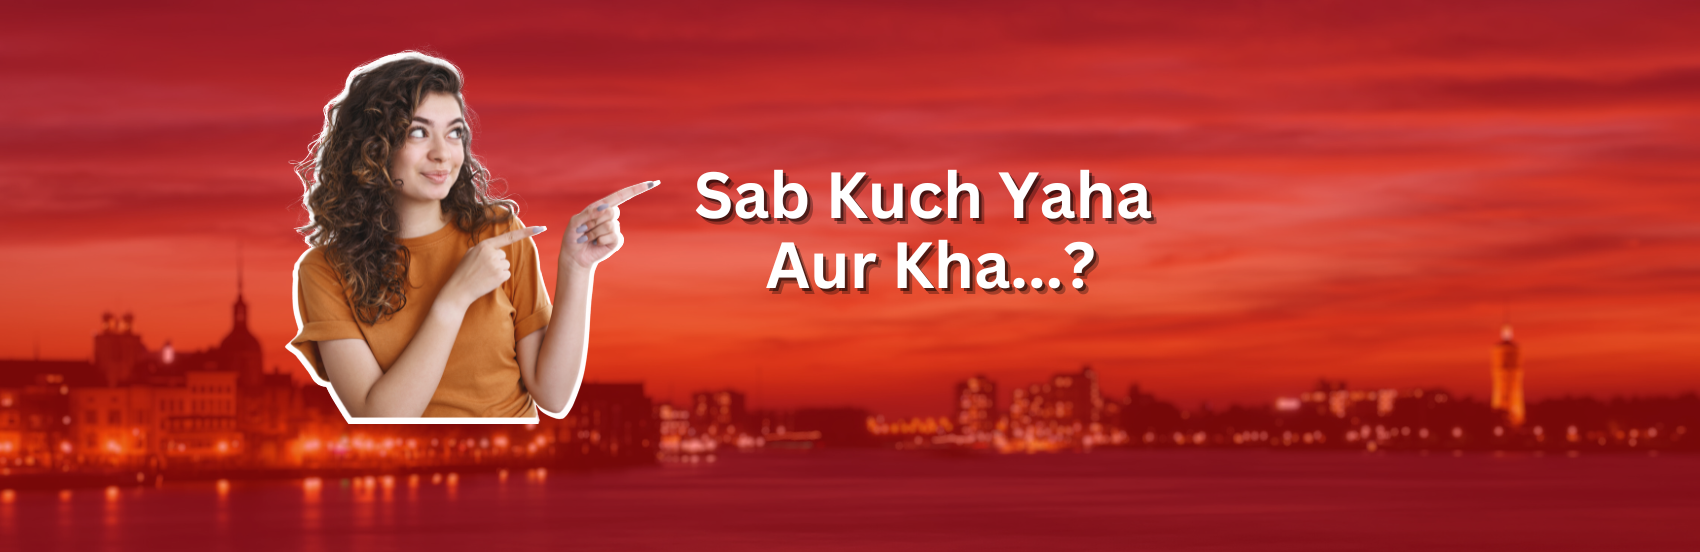
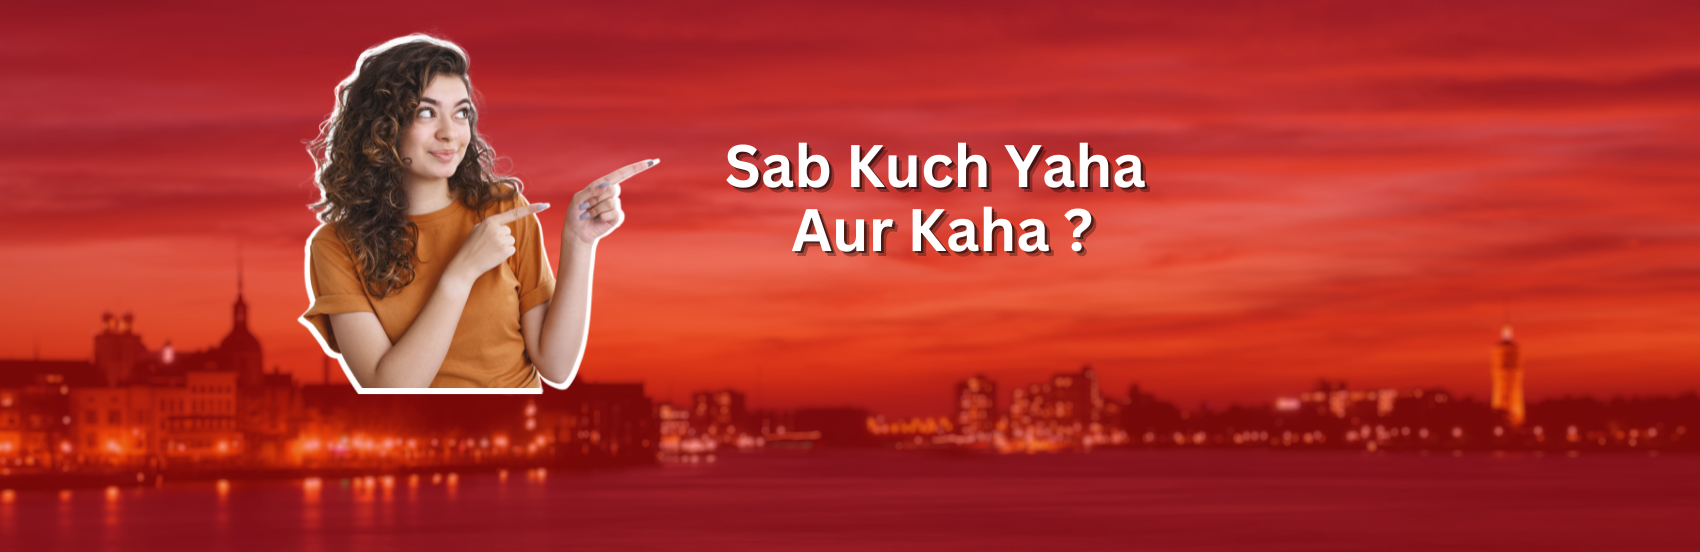
BannerImageChangeHomePage

Changed region(s): [[0.1559, 0.0616, 0.6859, 0.7699]]

diff --git a/src/Pages/Home.js b/src/Pages/Home.js
@@ -48,7 +48,7 @@ function Home() {
         </title>
       </Helmet>
 
-      <div className="h-screen w-full zoom zoom-out element  md:h-60 lg:h-96 sm:h-24 p-8 box-border djqwUUJNCO 9999 mb-4 shadow-2xl ">
+      <div className="h-screen w-full zoom zoom-out element  md:h-60 lg:h-96 sm:h-24 p-8 box-border djqwUUJNCO 9999 mb-4 shadow-2xl"  style={{backgroundImage: `url('../../Images/A4.png')`}}>
         <div className="mt-12 lg:pt-14 sm:pt-1 sm:h-6  md:pt-0 ">
           <SearchBar />
         </div>
@@ -753,7 +753,7 @@ const Wrapper = styled.section`
     }
     .djqwUUJNCO {
       height: 17vh !important;
-      background-image: url("../../Images/1.png");
+      background-image: url("../../Images/M1.png");
       background-repeat: no-repeat;
       background-size: cover;
       background-position: center;
@@ -767,7 +767,7 @@ const Wrapper = styled.section`
     }
     .djqwUUJNCO {
       height: 60vh !important;
-      background-image: url("../../Images/1.png");
+      background-image: url("../../Images/M1.png");
       background-repeat: no-repeat;
       background-size: cover;
       background-position: center;
@@ -781,7 +781,7 @@ const Wrapper = styled.section`
     }
     .djqwUUJNCO {
       height: 20vh !important;
-      background-image: url("../../Images/1.png");
+      background-image: url("../../Images/M1.png");
       background-repeat: no-repeat;
       background-size: cover;
       background-position: center;
@@ -795,7 +795,7 @@ const Wrapper = styled.section`
     }
     .djqwUUJNCO {
       height: 60vh !important;
-      background-image: url("../../Images/1.png");
+      background-image: url("../../Images/M1.png");
       background-repeat: no-repeat;
       background-size: cover;
       background-position: center;
@@ -804,7 +804,7 @@ const Wrapper = styled.section`
 
   @media screen and (max-width: 1800px) and (min-width: 601px) {
     .djqwUUJNCO {
-      background-image: url("../../Images/BannerImage3.png");
+      // background-image: url("../../Images/A4.png");
       background-repeat: no-repeat;
       background-size: cover;
       background-position: center;

diff --git a/src/aadharhomes/Nav.js b/src/aadharhomes/Nav.js
@@ -198,7 +198,7 @@ export default function Nav() {
     <Wrapper className="section">
       <Box>
       {/* #c13335 */}
-        <Box bg="red" px={{ base: 0, md: 4, lg: 7 }}>
+        <Box  bg="#ab2727"  px={{ base: 0, md: 4, lg: 7 }}>
           <Flex h={16} alignItems="center" justifyContent="space-between">
             <IconButton
               size={"md"}
@@ -610,7 +610,7 @@ export default function Nav() {
                     onMouseEnter={handleHover2}
                     onMouseLeave={handleLeave2}
                   >
-                    <Link to={"/projects-in-Gurugram"}>
+                    <Link to={"/projects-in-gurugram"}>
                       <button className="text-white font-semibold text-lg ">
                         Projects
                       </button>
@@ -673,18 +673,6 @@ export default function Nav() {
                             className="block text-sm px-4 py-1  hover:text-red-600"
                           >
                             Property in Singapore
-                          </Link>
-                          <Link
-                            to="#"
-                            className="block text-sm px-4 py-1  hover:text-red-600"
-                          >
-                            Property in India
-                          </Link>
-                          <Link
-                            to="#"
-                            className="block text-sm px-4 py-1  hover:text-red-600"
-                          >
-                            Property in Bangkok
                           </Link>
                         </div>
                       </div>
@@ -890,7 +878,7 @@ export default function Nav() {
                 )}
 
                 <Link
-                  to={"/projects-in-Gurugram"}
+                  to={"/projects-in-gurugram"}
                   className="text-white font-semibold text-lg mx-3"
                 >
                   Projects

diff --git a/src/Components/HomePageComponents/SearchBar.js b/src/Components/HomePageComponents/SearchBar.js
@@ -6,8 +6,8 @@ function SearchBar() {
   return (
     <Wrapper className="section">
       <div
-        className="qsbWrapper mr-auto ml-auto lg:mr-auto md:ml-auto md:mr-auto ml:ml-auto sm:mr-4 sm:ml-4  xs:py-2 lg:h-14 md:h-10 sm:h-8"
-        style={{ maxWidth: "800px", marginTop: "128px" }}
+        className="qsbWrapper pt-4 mr-auto ml-auto lg:mr-auto md:ml-auto md:mr-auto ml:ml-auto sm:mr-4 sm:ml-4  xs:py-2 lg:h-14 md:h-10 sm:h-8"
+        style={{ maxWidth: "800px", marginTop: "110px" }}
       >
         <div className="SJDMls xl:h-14 lg:h-14 md:h-8 sm:h-8">
           <span
@@ -23,7 +23,7 @@ function SearchBar() {
           <span
             className="options font-semibold hover:underline hover:underline-offset-8 cursor-pointer"
           >
-            Projects
+             New Launch
           </span>
           <span
             className="options font-semibold hover:underline hover:underline-offset-8 cursor-pointer"
@@ -38,7 +38,7 @@ function SearchBar() {
           <span
             className="options font-semibold hover:underline hover:underline-offset-8 cursor-pointer"
           >
-            New Launch
+           SCO
           </span>
         </div>
         <Search />

diff --git a/src/App.js b/src/App.js
@@ -122,7 +122,7 @@ function App() {
               path="/termsandconditions"
               element={<TermsAndConditions />}
             />
-            <Route path="/projects-in-Gurugram" element={<Properties />} />
+            <Route path="/projects-in-gurugram" element={<Properties />} />
             <Route path="/rental-properties/best-rental-property-in-gurugram" element={<RentPropViewCard />} />
             <Route path="/buy-properties/best-resale-property-in-gurugram" element={<BuyPropViewCard />} />
             <Route path="/about-us" element={<About />} />
